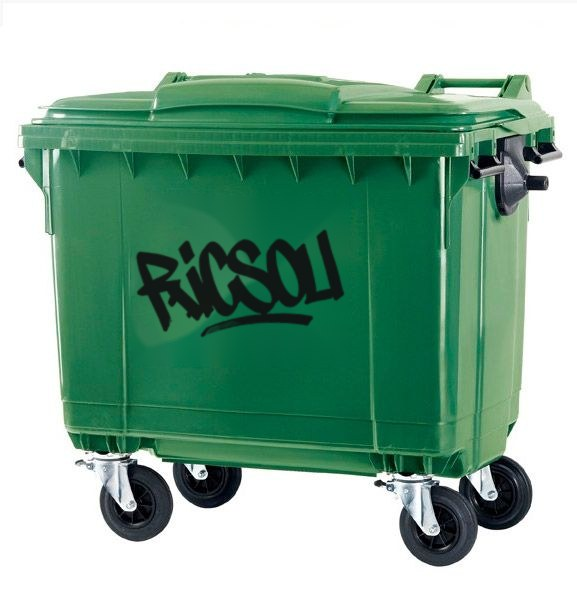
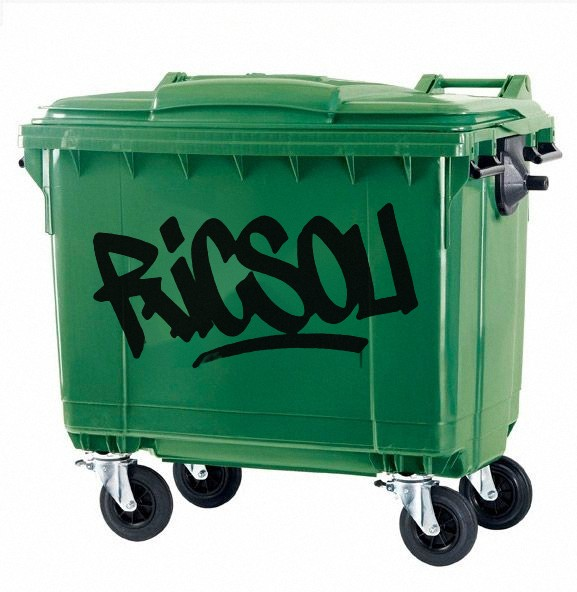
Add files via upload

Changed region(s): [[0.156, 0.3345, 0.7487, 0.6385]]

diff --git a/index.html b/index.html
@@ -3,7 +3,7 @@
 <head>
 <meta charset="utf-8">
 <meta name="viewport" content="width=device-width, initial-scale=1, viewport-fit=cover">
-<!-- RICSOU v26 -->
+<!-- RICSOU v27 -->
 <title>RICSOU</title>
 <meta name="description" content="RICSOU — Same name. Different places. Un nom qui fait son chemin dans les rues.">
 <link rel="canonical" href="https://ricsou.github.io/">
@@ -53,9 +53,9 @@ body.in nav{display:none}
 .page{position:fixed;inset:0;background:#fff;z-index:40;overflow:auto;padding:calc(clamp(90px,9vw,140px) + env(safe-area-inset-top,0px)) 24px 40px;transform:translateY(100%);transition:transform .55s cubic-bezier(.7,0,.2,1);visibility:hidden}
 .page.open{transform:none;visibility:visible}
 .pile{position:relative;max-width:1100px;margin:0 auto}
-.pile figure{position:absolute;width:min(46vw,300px);background:#fff;padding:8px;box-shadow:0 6px 24px rgba(0,0,0,.25);opacity:0;transform:translateY(-60px);transition:transform .8s cubic-bezier(.2,1,.3,1),opacity .5s;cursor:pointer}
-.pile figure.show{opacity:1;transform:translate(var(--x),var(--y)) rotate(var(--rot))}
-.pile img,.pile video{width:100%;display:block;pointer-events:none}
+.pile figure{position:absolute;box-sizing:border-box;width:min(46vw,300px);background:#fff;padding:8px;box-shadow:0 6px 24px rgba(0,0,0,.25);opacity:0;transform:translateY(-60px);transition:transform .8s cubic-bezier(.2,1,.3,1),opacity .5s;cursor:pointer}
+.pile figure.show{opacity:1;transform:none}
+.pile img,.pile video{width:100%;height:100%;object-fit:cover;display:block;pointer-events:none}
 .pile figure.vid{background:none;box-shadow:none;padding:0}
 .about{max-width:1300px;margin:8vh auto 0;padding:0 2vw;font-weight:700;font-size:min(3.2vw,44px);line-height:1.3}
 .about p{position:relative;width:fit-content;margin:0 0 .75em;white-space:nowrap;user-select:none;-webkit-user-select:none}
@@ -129,30 +129,26 @@ buildLogo();
 var pile=document.getElementById('pile'),loaded=false,z=1;
 function render(items){
   pile.innerHTML='';
-  var w=Math.min(pile.clientWidth||600,1100),cols=w>700?3:2,cw=Math.min(w*.46,300),step=cw*1.35,colH=[],c;
-  for(c=0;c<cols;c++)colH.push(0);
+  var w=Math.min(pile.clientWidth||600,1100),cols=w>700?3:2,gap=Math.max(14,w*.03),cw=Math.min((w-gap*(cols-1))/cols,300),n=0;
   items=items.map(function(it){return typeof it==='string'?{src:it}:it});
-  items.sort(function(a,b){return (a.last?1:0)-(b.last?1:0)||(b.video?1:0)-(a.video?1:0)});   // vidéos en premier (haut à gauche), la poubelle en dernier (bas à droite)
+  items.sort(function(a,b){return (a.last?1:0)-(b.last?1:0)||(b.video?1:0)-(a.video?1:0)});   // vidéos d'abord (haut à gauche), poubelle en dernier (bas à droite)
   items.forEach(function(it,i){
-    var f=document.createElement('figure'),m,k=0,h=step;
+    var f=document.createElement('figure'),m;
     if(it.video){
       m=document.createElement('video');m.src=it.src;m.muted=true;m.loop=true;m.autoplay=true;m.playsInline=true;
       m.setAttribute('muted','');m.setAttribute('playsinline','');m.preload='auto';
       m.addEventListener('canplay',function(){var p=m.play();if(p&&p.catch)p.catch(function(){})});
-      h=cw*(it.ratio||1)+60;
     }else{m=new Image();m.src=it.src;m.loading='lazy'}
-    for(c=1;c<cols;c++)if(colH[c]<colH[k]-1)k=c;     // colonne la plus courte
-    if(it.last){k=cols-1;colH[k]=Math.max(colH[k],Math.max.apply(null,colH)-step*.15)}   // tout en bas, colonne de droite
-    f.style.left=(cols>1?k*(w-cw)/(cols-1):0)+'px';
-    f.style.top=colH[k]+'px';colH[k]+=h;
-    f.style.setProperty('--x',(Math.random()*30-15)+'px');
-    f.style.setProperty('--y',(Math.random()*30-15)+'px');
-    f.style.setProperty('--rot',(Math.random()*16-8)+'deg');
+    if(it.last)while(n%cols!==cols-1)n++;            // la poubelle : colonne de droite
+    var col=n%cols,row=Math.floor(n/cols);n++;
+    f.style.width=cw+'px';f.style.height=cw+'px';
+    f.style.left=(cols>1?col*(cw+gap)+(w-(cols*cw+(cols-1)*gap))/2:0)+'px';
+    f.style.top=row*(cw+gap)+'px';
     f.appendChild(m);
     f.onclick=function(){f.style.zIndex=++z;if(m.play){var p=m.play();if(p&&p.catch)p.catch(function(){})}};
-    pile.appendChild(f);setTimeout(function(){f.classList.add('show')},120*i);
+    pile.appendChild(f);setTimeout(function(){f.classList.add('show')},90*i);
   });
-  pile.style.height=(Math.max.apply(null,colH)+cw*.3)+'px';
+  pile.style.height=(Math.ceil(n/cols)*(cw+gap))+'px';
 }
 var HERO=[{src:'camion-ricsou.mp4',video:true},{src:'livre-ricsou.mp4',video:true},{src:'poubelle-ricsou.jpg',last:true}];   // le camion : toujours affiché en haut
 function loadPhotos(){
@@ -221,22 +217,17 @@ function tinted(o,ci,cb){
   for(var k=0;k<24;k++){var a=k/24*Math.PI*2;y.drawImage(b,Math.cos(a)*r,Math.sin(a)*r)}
   y.globalCompositeOperation='source-in';
   var S=pickStreet();
-  if(S){ /* mix de photos de rue : une base + 3 morceaux d'autres photos collés au hasard */
-    var bw=Math.max(1,x1-x0),bh=Math.max(1,y1-y0);
-    function put(P,k,rx,ry){var s=Math.max(bw*k/P.naturalWidth,bh*k/P.naturalHeight)*(1+Math.random()*.25),
-        dw=P.naturalWidth*s,dh=P.naturalHeight*s,
-        dx=rx==null?x0-(dw-bw)*Math.random():x0+rx*bw-dw/2,dy=ry==null?y0-(dh-bh)*Math.random():y0+ry*bh-dh/2;
-      y.drawImage(P,dx,dy,dw,dh)}
-    put(S,1);y.globalCompositeOperation='source-atop';
-    var ok=STREET.filter(function(i){return i.complete&&i.naturalWidth&&i!==S}),n=3;
-    while(n--&&ok.length){var P=ok.splice(Math.floor(Math.random()*ok.length),1)[0];
-      put(P,.45+Math.random()*.2,Math.random(),Math.random())}
+  if(S){ /* une seule photo de rue par lettre, recadrée au hasard */
+    var bw=Math.max(1,x1-x0),bh=Math.max(1,y1-y0),
+        k=Math.max(bw/S.naturalWidth,bh/S.naturalHeight)*(1+Math.random()*.3),
+        dw=S.naturalWidth*k,dh=S.naturalHeight*k;
+    y.drawImage(S,x0-(dw-bw)*Math.random(),y0-(dh-bh)*Math.random(),dw,dh);
   }else{y.fillStyle=HEX[ci];y.fillRect(0,0,w,h)}
   x.globalCompositeOperation='source-over';x.drawImage(e,0,0);
   c.toBlob(function(bl){var old=o.blobUrl;o.blobUrl=URL.createObjectURL(bl);cb(o.blobUrl);
     if(old)setTimeout(function(){URL.revokeObjectURL(old)},800)})}
 function wipe(im){im.classList.remove('wipe');void im.offsetWidth;im.classList.add('wipe')}
-function toggle(o){o.yel=!o.yel;var im=o.img;
+function toggle(o){o.yel=true;var im=o.img;
   if(o.yel){var k;do{k=Math.floor(Math.random()*HEX.length)}while(k===last);last=k;
     tinted(o,k,function(u){im.src=u;wipe(im)})}
   else{im.src=o.orig;wipe(im)}}
